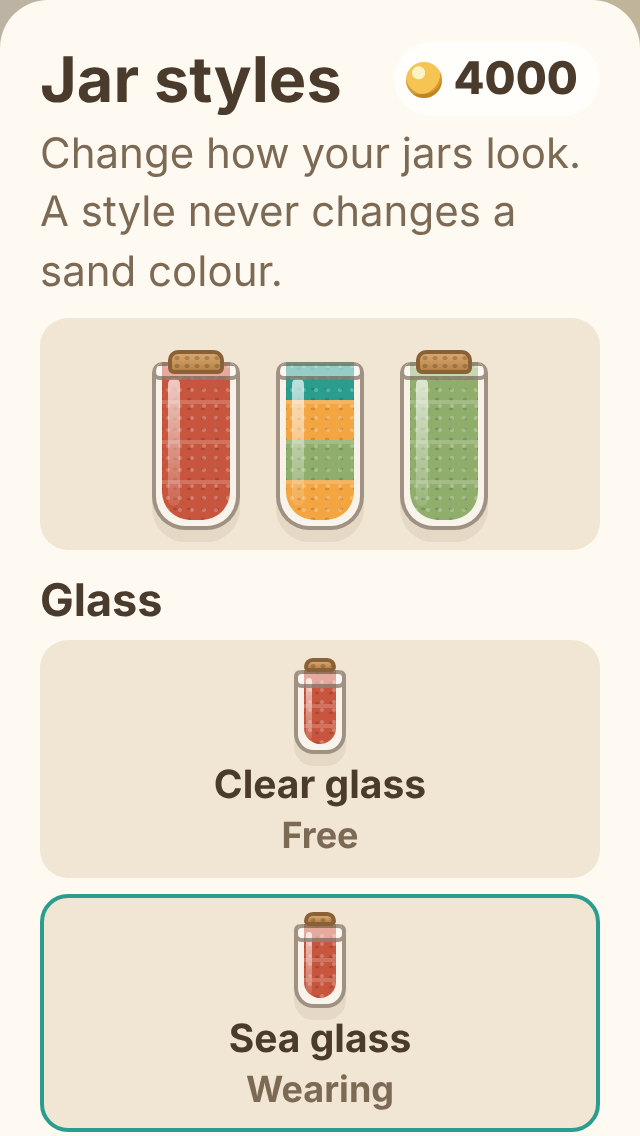
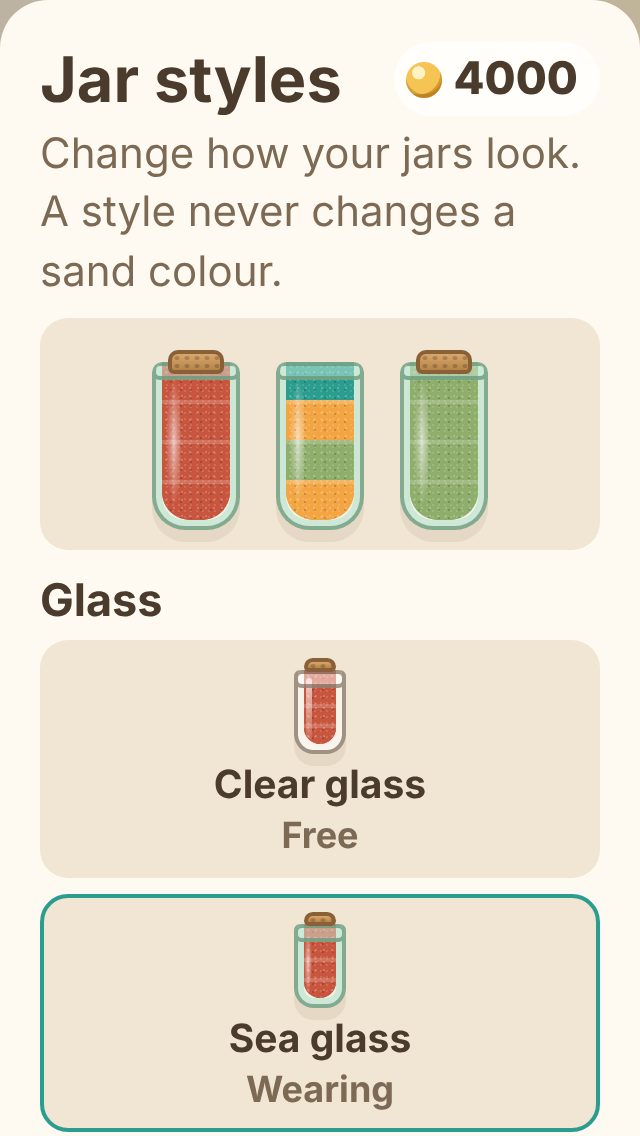
docs: D93 (art review, first pass) and sprint 12 regression results
Story: sprint-12 S6.

Claude-Session: https://claude.ai/code/session_0159TZnrk52QMtuhsaHD9b53

diff --git a/design/gdd/systems-index.md b/design/gdd/systems-index.md
@@ -151,6 +151,7 @@ Every `INTENT UNKNOWN` item was put to the owner. "Build" means the decision nee
 | D90 | Style slots | **Mix and match**: three slots (glass, cork, sand), each with its own small ladder; any owned pieces combine | jar-styles | sprint 12 |
 | D91 | Style unlock | **From level 60**, sharing the 1–2 week pace with the scenes still to buy | jar-styles, economy | sprint 12 |
 | D92 | Sprint 12 delivery | **Build it all to 0.12.0**, merging under D61; the owner approves the style art before the merge (as D67 for audio) | — | sprint 12 |
+| D93 | Jar style art review (first pass) | **Fix all five open items**: a cork stopper on the default Home art (changes today's Home look), quieter sea glass frost in dark scenes, glint readable on light sand, a stronger pearl outline in light scenes, and the worn texture on the pouring sand and on buried units | jar-styles | sprint 12 |
 
 **Defaults accepted by the owner (2026-11-08, sprint 6):**
 - GA-LG-6: a fallback level that loses its debut mechanic doesn't show the intro card; the card waits for the next level that has the mechanic (`level-generation.md`).

diff --git a/production/qa/evidence/sprint-12/sheet/README.md b/production/qa/evidence/sprint-12/sheet/README.md
@@ -13,3 +13,10 @@ Raw results: `result.json`. No page errors.
 | A piece out of reach: the button is disabled and reads "Needs 1800 coins (you have 300)" | pass (`sheet-need-coins.png`) |
 | Wearing a default back is free | pass |
 | 150% text on 320 px: no sideways scroll | pass (`sheet-320-150*.png`) |
+
+## Regressions on the combined sprint 12 build (S2 + S3 + S4)
+
+- Upgrade play-through (`sprint-9/close/upgrade.cjs`): a 0.8.0 save shows the 0.12.0 What's new card once, opens the map and wins level 12; no errors.
+- Two tabs (`sprint-9/m4/two-tab.cjs`): no save lost.
+- Level 141 at a 4x CPU throttle: the board appears in 0.4–0.5 s on Pixel 7 and iPhone SE at 150% text, 17 jars above the toolbar.
+- Hints on level 26: 36 hint pours to a win, no stale marks, no sealed jar with buried sand.
